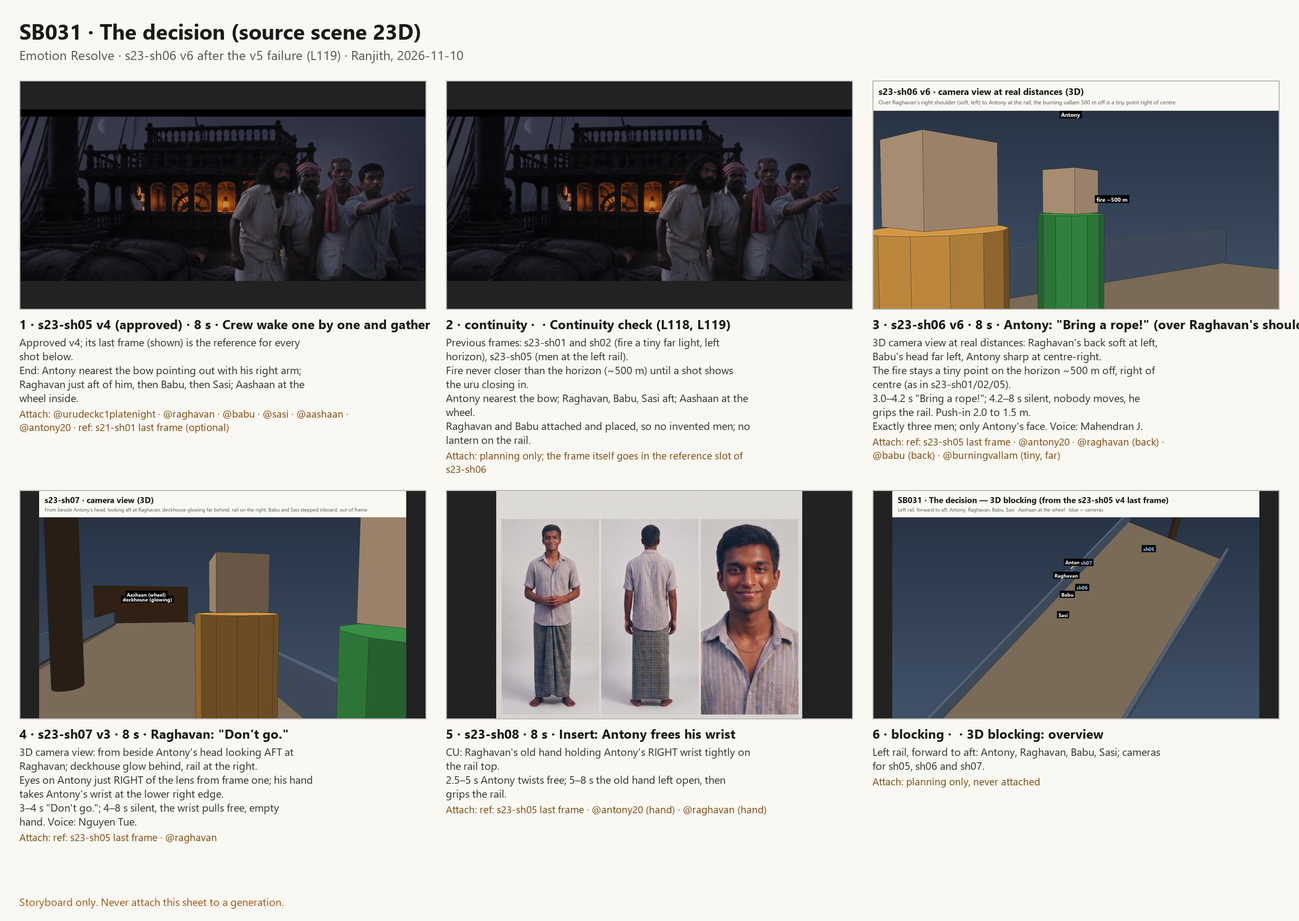
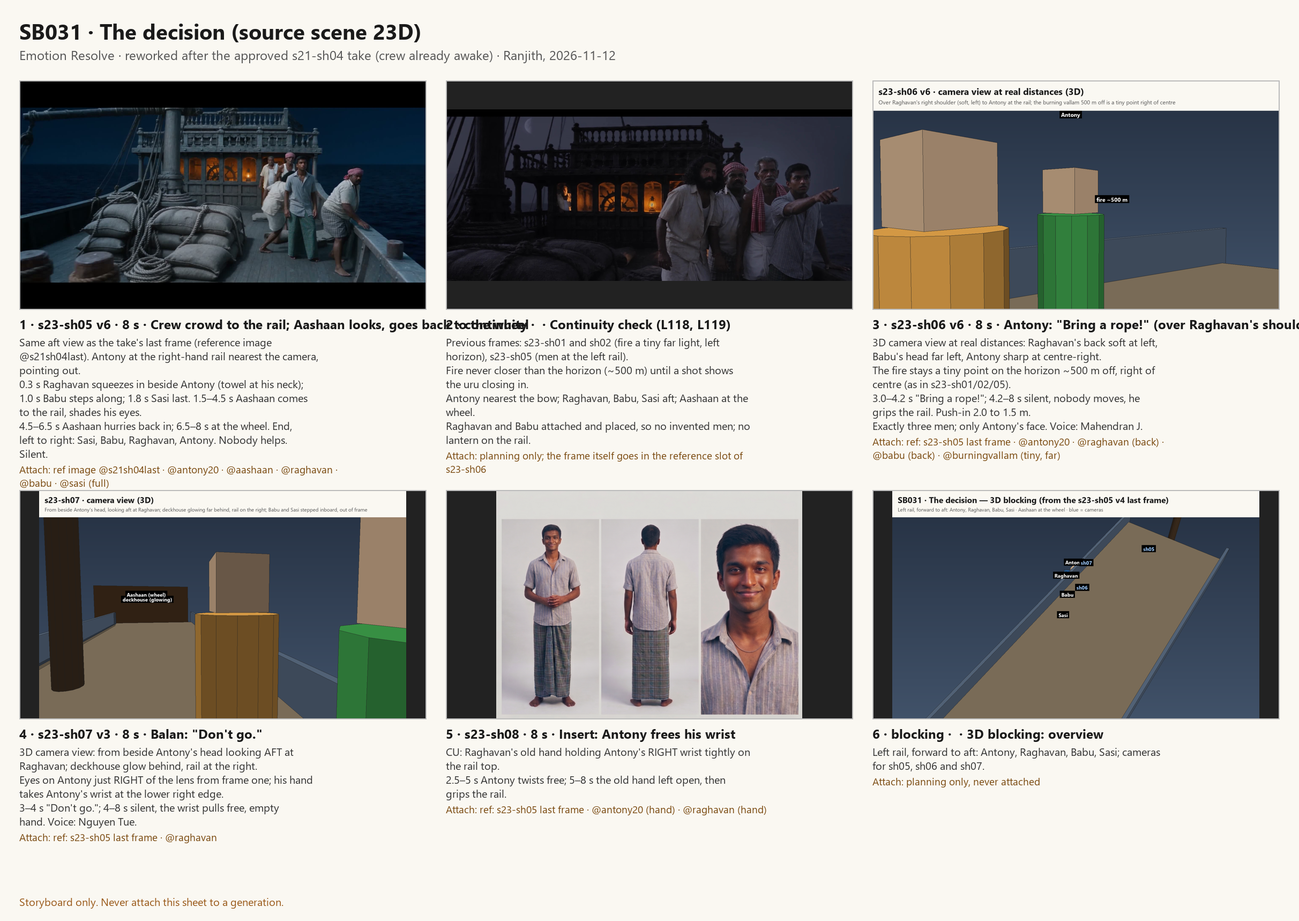
Ranjith: shot: s23-sh05 v6 (crew crowd to the rail, Aashaan back to the wheel) and SB031 storyboard

Changed region(s): [[0.0, 0.0617, 0.3713, 0.5244], [0.1238, 0.7712, 0.2166, 0.8021], [0.2166, 0.4936, 0.2475, 0.5244]]

diff --git a/scenes/showreel/s23-sh05.md b/scenes/showreel/s23-sh05.md
@@ -1,72 +1,74 @@
-# Shot s23-sh05 · SB031a The crew wake and gather at the rail (8 s, silent) — v5
-Status: **ready, proposal** (v5, full-moon redo, Ranjith 2026-11-12; v4 kept in `retired/s23-sh05-v4.md`). Start images come from the new full-moon takes.
+# Shot s23-sh05 · SB031a The crew crowd to the rail; Aashaan looks and goes back to the wheel (8 s, silent) — v6
+Status: **ready, proposal** (v6, Ranjith 2026-11-12: continues from the approved s21-sh04 take, where the crew are already awake; v5 kept in `retired/s23-sh05-v5.md`). QA 88.
 Storyboard: SB031 · source scene 23D · emotion "Resolve" (no tag on the platform, W6) · storyboard `storyboards/sb031-storyboard.png` (with 3D blocking)
 Created by: Ranjith, 2026-11-08
-Camera position: urudeck-c1-aft-night (same as s21-sh01)
-References: reference image = s21-sh01 last frame if kept · @urudeckc1platefullmoon (full) · @raghavan · @babu · @sasi · @aashaan (small, inside) · @antony20 (all full)
-Reference sweep (left out, and why): @crew: never with the named crewmen (L74). @suresh: not in the night-watch scene (SB027 had Raghavan, Babu, Sasi). @burningvallam and @selvan: off frame, beyond the right rail toward the bow (behind the camera), only their orange glow is seen. @uru: its own deck is the plate (L51).
-Follows: s23-sh04 v1 (approved: Antony shouts to Aashaan, points at the fire). Next: s23-sh06.
+Camera position: the aft view of the s21-sh04 take's last frame (main deck forward of the sacks, looking aft; urudeck-c1-aft-night family), locked
+References: reference image = `approved/s21-sh04-last.jpg` (@s21sh04last, required) · @antony20 · @aashaan · @raghavan · @babu · @sasi (all full)
+Reference sweep (left out, and why): @urudeckc1platefullmoon: its mast stands elsewhere than in the approved take; the take's frame carries the deck (L20, L98). @s21sh04blender3d: the take now holds the layout. @burningvallam, @selvan: behind the camera, ahead-left; only a faint orange flicker on faces. @suresh, @balan: below until s23-sh06b.
+Follows: s23-sh04 v3 (Antony shouts to Aashaan). Next: s23-sh06 (Antony: bring the rope, fast).
 
 ## Prompt
 ```
 SCENE
-Full-moon night, 1998, on the open sea, on the main deck of the big wooden cargo uru. One continuous shot. Woken by Antony's shout, the three sleeping crewmen wake one after another, get up off their mats and hurry to the right-hand rail, where Antony runs in from the bow; they all stare out at the sea toward the bow. Nobody moves to help. Inside the deckhouse Aashaan leans to look out. Nobody speaks.
+Full-moon night, 1998, on the open sea, on the main deck of our wooden cargo uru, looking aft at the carved deckhouse. One continuous shot, 8 seconds. After Antony's shout the crew crowd to the right-hand rail beside him and stare out to sea; nobody moves to help. Aashaan comes to the rail, looks, then hurries back inside to the wheel. Nobody speaks.
+
+MEMORY (the same night in every shot; nothing changes unless this block says so)
+Place: our uru: carved two-deck deckhouse aft with the wheel inside, its windows and door lit by one lantern; ONE mast with a lantern at its foot and ONE stack of lashed sacks beside it, both at the LEFT of this view; the right-hand rail is the boat's left side.
+Light: the full moon is behind the camera, never in the sky of this view; its silver-blue light falls on the deckhouse front and the men. Blue and readable, never black; warm light only from the lanterns.
+People: Antony: grey-beige short-sleeve shirt with thin vertical stripes, green-grey checked mundu, barefoot, bare wrists. Aashaan: about 60, grey hair combed back, grey moustache, cream shirt over a white vest, white towel on his LEFT shoulder, white mundu. Raghavan: about 60, thin, grey hair uncovered, white vest, white mundu, red-and-white checked towel draped round his neck and down his chest. Babu: heavy-set, moustache, red-and-white checked towel tied round his head, checked lungi. Sasi: long black curly hair, full beard, off-white shirt, white mundu. One of each, never a copy or a stranger; no red thread on any wrist.
+Fire: one burning vallam far off ahead-left, behind the camera to the right; only a faint orange flicker on faces at the rail.
+NOW: Antony at the right-hand rail nearest the camera, right arm pointing out to sea; Babu at the rail just beyond him; Raghavan and Sasi on the deck between the sacks and the door, just up; Aashaan just out of the deckhouse door; the wheel empty.
 
 ACTIVE REFERENCES
-Reference image (0.0s): the last frame of the earlier shot from this same view (s21-sh01), if kept: the same deck, mats, deckhouse and men.
-@urudeckc1platefullmoon (0.0s–8.0s, full): the main deck looking aft exactly as in the reference: the carved wooden deckhouse with its windows and half-open door glowing from one lantern inside, the wheel seen through the windows, mats on the clear deck, the deep blue sea beyond the RIGHT rail, the full moon behind the view, out of frame; the whole deck in clear blue full-moon light. 100% matches the reference.
-@raghavan (0.0s–8.0s, full): Raghavan, about 60, thin and wiry, very dark weathered skin, short grey hair, grey moustache, white cotton vest, red-and-white checked towel round his neck, white mundu. 100% matches the reference.
-@babu (0.0s–8.0s, full): Babu, about 40, heavy-set, thick black moustache, red-and-white checked towel tied round his head, off-white half-sleeve shirt open over a white vest, grey-brown checked lungi. 100% matches the reference.
-@sasi (0.0s–8.0s, full): Sasi, about 35, lean, long thick black curly hair to the shoulders, full black beard, stained off-white half-sleeve shirt open over a white vest, white mundu. 100% matches the reference.
-@aashaan (0.0s–8.0s, full, small, inside the deckhouse): Aashaan, about 60, grey hair combed back, grey moustache, cream half-sleeve shirt open over a white vest, white towel on his LEFT shoulder, white mundu. 100% matches the reference.
-@antony20 (0.0s–8.0s, full): Antony, 24, lean, sun-browned, short black hair; exactly the reference clothes: short-sleeve lavender-grey and white striped shirt and grey-green checked mundu, never a plain white shirt or trousers; thin silver chain. 100% matches the reference.
+Reference image (0.0s–8.0s): the last frame of the earlier shot from this same view: the same deck, mast, sacks, deckhouse, light and men. 100% matches the reference.
+@antony20, @aashaan, @raghavan, @babu, @sasi (full): each exactly as in MEMORY. 100% matches the reference.
 
 WHAT IS IN FRAME
-Only the main deck, the mats, the deckhouse with Aashaan inside, the right-hand rail with the deep blue sea beyond, and exactly five men: Raghavan, Babu, Sasi, Antony and Aashaan. Every frame looks like the film itself, with nothing from the making of it. No lettering anywhere.
-
-THE DECK (0.0s–8.0s)
-Seen from the main deck forward of the deckhouse at standing eye height, looking aft, exactly as in the reference. On the mats at the start: Raghavan on his back with the towel over his eyes, Babu on his side facing the right rail, Sasi asleep against the sacks. Inside the deckhouse, framed by the middle windows, Aashaan at the wheel. The right-hand rail runs down the right of the frame; beyond it the deep blue sea.
+The main deck, the mast and the sacks at the left, the lit deckhouse, the right-hand rail with the deep blue sea beyond, and exactly five men. No moon. No lettering anywhere.
 
 FIRST FRAME
-The three men asleep on their mats, Aashaan at the wheel inside the glowing deckhouse; the deck still.
+As the reference image, seconds later: Antony now at the right-hand rail nearest the camera, pointing out; Babu at the rail beyond him; Raghavan and Sasi mid-deck; Aashaan by the door.
 
 FORMAT MODE
 One continuous shot; the camera does not cut on its own. The video runs the full 8 seconds.
 
 OPTICS
-WS 63°, natural depth of field: every man and the deckhouse readable.
+WS, about 63°, natural depth of field: every man and the deckhouse readable.
 
 CAMERA
-A locked-off, steady view at standing eye height, rising and falling gently with the swell, level horizon.
+Locked off at standing eye height; the camera rides with the boat, so the uru stays steady in the frame.
 
 ACTION
-0.0s to 2.0s: Each man wakes at his own moment, never together: at 0.3s Raghavan pulls the towel off his eyes and sits up; at 1.0s Babu pushes up on one elbow; at 1.6s Sasi lifts his head, still half asleep; each looks toward the bow, toward the camera; inside, Aashaan turns his head.
-2.0s to 5.5s: At 2.0s Raghavan gets up first and hurries to the right-hand rail nearest the camera; at 2.8s Babu follows, slower; at 3.6s Sasi gets up last and comes after them; Antony runs in past the right edge of the frame from the bow to the rail beside Raghavan, his right arm pointing out over the sea toward the bow; inside the deckhouse Aashaan leans to the side window to look out.
-5.5s to 8.0s: A tense beat: the four men at the right rail stare out toward the bow, a faint orange flicker on their faces; nobody climbs or moves to help; Babu shakes his head slowly, Sasi grips the rail, Raghavan breathes fast; Antony looks from the sea to the men and back. Everyone keeps moving.
+0.0s to 3.0s: Each moves at his own moment, never together. 0.3s Raghavan hurries to the rail and squeezes in just beyond Antony, the towel round his neck; 1.0s Babu shifts one step further along the rail to make room; 1.8s Sasi comes last and stops beyond Babu, gripping the rail.
+1.5s to 4.5s: Aashaan crosses from the door to the rail behind them, shades his eyes and stares out where Antony points.
+4.5s to 6.5s: Aashaan turns, grave, and hurries back in through the door.
+6.5s to 8.0s: Aashaan at the wheel behind the window, turning it; at the rail, left to right: Sasi, Babu, Raghavan, then Antony nearest the camera, all staring out to sea, faces turned toward the right edge of the frame. Nobody climbs or moves to help. Hold.
 
-PERFORMANCE
-Fear and hesitation in the crew, urgency in Antony; bodies loose and real, never posed, never frozen.
+EXPRESSIONS
+Antony: urgent, eyes wide, jaw tight. Raghavan: fast breath, an old man's dread. Babu: afraid, shaking his head slowly. Sasi: tense, jaw set. Aashaan: grave, eyes narrowed, decided. Every mouth stays closed.
 
 PHYSICS
-The deck rises and falls on the swell; the mats and cloth shift as the men get up; the lantern sways inside the deckhouse and the window glow moves.
+A slow sea; lantern flames flicker; mundus and shirts move as they hurry; the window glow sways.
 
 LIGHTING
-A clear full-moon night: warm lantern glow from the deckhouse windows and door onto the near planks; cool silver-blue light from the full moon behind the view, out of frame, falling on the deckhouse front and the men; a faint flickering orange glow from beyond the right rail on the faces of the men there. No glossy look. Blue and readable, never black, never grey.
+As in MEMORY: moonlight from behind the camera on the deckhouse front and the men; warm lantern glow from the windows, the door and the mast foot; a faint warm flicker on the faces at the rail from the right. No moon and no glow in the sky.
 
 AUDIO
-Sound effects only — natural on-location sound, the soundtrack carries no music. No music at all: no score, no background music, no song, no humming, and no cinematic sound design: no riser, no whoosh, no swell, no rumble, no transition sound. Ambient at a steady level that does not build. No spoken words and no voices.
-0.0s–8.0s: water hissing along the hull, the rigging creaking; 0.5s–5.5s mats rustling and footsteps on the planks; 5.5s–8.0s quick, worried breaths; far off, the faint crackle of a fire.
+Sound effects only — natural on-location sound, the soundtrack carries no music. No music at all: no score, no background music, no song, no humming, and no cinematic sound design: no riser, no whoosh, no swell, no rumble, no transition sound. Ambient at a steady level that does not build. No spoken words and no voices; every mouth stays closed.
+0.0s–3.0s bare feet on the planks; 4.5s–6.5s Aashaan's quick steps, the door knocking; 6.5s–8.0s the wheel creaking, the sea, quick worried breaths.
 
 STYLE
-Photoreal 1998 Kerala period film. Shot on a Sony Venice 2 full-frame digital cinema camera: very wide dynamic range that holds the lantern-lit deckhouse and the moonlit deck in one frame; clean, low-noise shadows; soft, gradual highlight roll-off; accurate, natural colour with rich, true skin tones; gentle filmic contrast; fine, organic texture; no over-sharpening, no glossy or video look. Cool full-moon night with one warm lantern.
+Photoreal 1998 Kerala period feature film. Shot on a Sony Venice 2 full-frame digital cinema camera: very wide dynamic range; clean, low-noise shadows; soft, gradual highlight roll-off; accurate, natural colour with rich, true skin tones; gentle filmic contrast; fine, organic texture; no over-sharpening, no glossy or video look. Deep blue full-moon night with small warm lanterns.
 
 POSITIVE LOCKS
-Exactly five men: Raghavan, Babu, Sasi and Antony at the RIGHT rail by the end, Aashaan inside the deckhouse at the wheel. Never moving together. Nobody climbs the rail or jumps. No moon in the sky of this view. Nobody speaks. Runs the full 8 seconds.
+Exactly five men, one of each. At the end: Sasi, Babu, Raghavan, Antony along the right-hand rail, never moving together; Aashaan inside at the wheel. Raghavan's towel round his neck, his grey hair uncovered; Babu's towel on his head. One mast, one stack of sacks. Nobody climbs the rail. No moon in the sky. Nobody speaks. Runs the full 8 seconds.
 ```
 
 ## Settings
-- Duration: set the platform to 8 s (L71). 21:9. No dialogue. Generate this one FIRST: its approved last frame is the reference image for s23-sh06, sh07 and sh08 (L85).
-- On the platform, remove all other attachments first (L88); attach only the IDs and images listed here.
+- Duration **8 s** (L71) · 21:9 · no dialogue · remove every other attachment first (L88). Attach folder: `attach/s23-sh05/`.
+- Attach: reference image `@s21sh04last` · `@antony20` · `@aashaan` · `@raghavan` · `@babu` · `@sasi`.
+- Generate this one FIRST of SB031: its approved last frame is the start image for s23-sh06 (L85).
+- QA 88. Risks: five people moving (staggered, L113); Aashaan has to go back in by 6.5 s or s24-sh01 breaks; Raghavan's towel (L149).
 
 ## Generation results
 - v4 [approved] (2026-11-10, Ranjith) kept; last frame saved. End: Antony at the rail nearest the bow pointing out with his right arm, Raghavan just aft of him, then Babu, then Sasi; Aashaan at the wheel inside.
@@ -75,6 +77,7 @@ Exactly five men: Raghavan, Babu, Sasi and Antony at the RIGHT rail by the end, 
 - v1 [failed] (2026-11-08, Ranjith) blocked by Higgsfield's content filter, nothing rendered (L72/L89).
 
 ## History
+- v6 (2026-11-12): Ranjith: reworked after the approved s21-sh04 take, where the crew are already awake and Aashaan has come out of the door: no waking; the men crowd to the rail; Aashaan looks, then goes back to the wheel, so s23-sh06 to s24-sh01 still find him there. End order kept (Sasi, Babu, Raghavan, Antony). MEMORY block (L145), L149 towel wording, no plate (the take carries the deck).
 - v5 (2026-11-12): Ranjith: full-moon redo (SB027–SB032) in the look of his reference video: moon placed by the night sheet (ahead-right of the bow, L142), blue readable light, the bow is @urubowplate (L143), plates swapped to the full-moon IDs. Action, positions, lines and timing unchanged (L114). A start image means the last frame of the NEW full-moon take of the shot before.
 - v4 (2026-11-10): back to the approved v2 prompt word for word, with only the waking and getting up staggered (Raghavan 0.3 s / 2.0 s, Babu 1.0 s / 2.8 s, Sasi 1.6 s / 3.6 s) and 'never moving together' in the locks (L113, L114). v3: `retired/s23-sh05-v3.md`.
 - v3 (2026-11-10): retake with L92 (spread at different distances and poses, not a row) and L113 (each man wakes and moves at his own time, 0.3–4.0 s, own action). End order kept from v2's frame (aft to forward: Sasi, Antony, Babu, Raghavan) so s23-sh06/sh07 still match; Aashaan ends in the doorway as in v2.

diff --git a/scenes/showreel/retired/s23-sh05-v5.md b/scenes/showreel/retired/s23-sh05-v5.md
@@ -1,0 +1,82 @@
+# Shot s23-sh05 · SB031a The crew wake and gather at the rail (8 s, silent) — v5
+Status: **ready, proposal** (v5, full-moon redo, Ranjith 2026-11-12; v4 kept in `retired/s23-sh05-v4.md`). Start images come from the new full-moon takes.
+Storyboard: SB031 · source scene 23D · emotion "Resolve" (no tag on the platform, W6) · storyboard `storyboards/sb031-storyboard.png` (with 3D blocking)
+Created by: Ranjith, 2026-11-08
+Camera position: urudeck-c1-aft-night (same as s21-sh01)
+References: reference image = s21-sh01 last frame if kept · @urudeckc1platefullmoon (full) · @raghavan · @babu · @sasi · @aashaan (small, inside) · @antony20 (all full)
+Reference sweep (left out, and why): @crew: never with the named crewmen (L74). @suresh: not in the night-watch scene (SB027 had Raghavan, Babu, Sasi). @burningvallam and @selvan: off frame, beyond the right rail toward the bow (behind the camera), only their orange glow is seen. @uru: its own deck is the plate (L51).
+Follows: s23-sh04 v1 (approved: Antony shouts to Aashaan, points at the fire). Next: s23-sh06.
+
+## Prompt
+```
+SCENE
+Full-moon night, 1998, on the open sea, on the main deck of the big wooden cargo uru. One continuous shot. Woken by Antony's shout, the three sleeping crewmen wake one after another, get up off their mats and hurry to the right-hand rail, where Antony runs in from the bow; they all stare out at the sea toward the bow. Nobody moves to help. Inside the deckhouse Aashaan leans to look out. Nobody speaks.
+
+ACTIVE REFERENCES
+Reference image (0.0s): the last frame of the earlier shot from this same view (s21-sh01), if kept: the same deck, mats, deckhouse and men.
+@urudeckc1platefullmoon (0.0s–8.0s, full): the main deck looking aft exactly as in the reference: the carved wooden deckhouse with its windows and half-open door glowing from one lantern inside, the wheel seen through the windows, mats on the clear deck, the deep blue sea beyond the RIGHT rail, the full moon behind the view, out of frame; the whole deck in clear blue full-moon light. 100% matches the reference.
+@raghavan (0.0s–8.0s, full): Raghavan, about 60, thin and wiry, very dark weathered skin, short grey hair, grey moustache, white cotton vest, red-and-white checked towel round his neck, white mundu. 100% matches the reference.
+@babu (0.0s–8.0s, full): Babu, about 40, heavy-set, thick black moustache, red-and-white checked towel tied round his head, off-white half-sleeve shirt open over a white vest, grey-brown checked lungi. 100% matches the reference.
+@sasi (0.0s–8.0s, full): Sasi, about 35, lean, long thick black curly hair to the shoulders, full black beard, stained off-white half-sleeve shirt open over a white vest, white mundu. 100% matches the reference.
+@aashaan (0.0s–8.0s, full, small, inside the deckhouse): Aashaan, about 60, grey hair combed back, grey moustache, cream half-sleeve shirt open over a white vest, white towel on his LEFT shoulder, white mundu. 100% matches the reference.
+@antony20 (0.0s–8.0s, full): Antony, 24, lean, sun-browned, short black hair; exactly the reference clothes: short-sleeve lavender-grey and white striped shirt and grey-green checked mundu, never a plain white shirt or trousers; thin silver chain. 100% matches the reference.
+
+WHAT IS IN FRAME
+Only the main deck, the mats, the deckhouse with Aashaan inside, the right-hand rail with the deep blue sea beyond, and exactly five men: Raghavan, Babu, Sasi, Antony and Aashaan. Every frame looks like the film itself, with nothing from the making of it. No lettering anywhere.
+
+THE DECK (0.0s–8.0s)
+Seen from the main deck forward of the deckhouse at standing eye height, looking aft, exactly as in the reference. On the mats at the start: Raghavan on his back with the towel over his eyes, Babu on his side facing the right rail, Sasi asleep against the sacks. Inside the deckhouse, framed by the middle windows, Aashaan at the wheel. The right-hand rail runs down the right of the frame; beyond it the deep blue sea.
+
+FIRST FRAME
+The three men asleep on their mats, Aashaan at the wheel inside the glowing deckhouse; the deck still.
+
+FORMAT MODE
+One continuous shot; the camera does not cut on its own. The video runs the full 8 seconds.
+
+OPTICS
+WS 63°, natural depth of field: every man and the deckhouse readable.
+
+CAMERA
+A locked-off, steady view at standing eye height, rising and falling gently with the swell, level horizon.
+
+ACTION
+0.0s to 2.0s: Each man wakes at his own moment, never together: at 0.3s Raghavan pulls the towel off his eyes and sits up; at 1.0s Babu pushes up on one elbow; at 1.6s Sasi lifts his head, still half asleep; each looks toward the bow, toward the camera; inside, Aashaan turns his head.
+2.0s to 5.5s: At 2.0s Raghavan gets up first and hurries to the right-hand rail nearest the camera; at 2.8s Babu follows, slower; at 3.6s Sasi gets up last and comes after them; Antony runs in past the right edge of the frame from the bow to the rail beside Raghavan, his right arm pointing out over the sea toward the bow; inside the deckhouse Aashaan leans to the side window to look out.
+5.5s to 8.0s: A tense beat: the four men at the right rail stare out toward the bow, a faint orange flicker on their faces; nobody climbs or moves to help; Babu shakes his head slowly, Sasi grips the rail, Raghavan breathes fast; Antony looks from the sea to the men and back. Everyone keeps moving.
+
+PERFORMANCE
+Fear and hesitation in the crew, urgency in Antony; bodies loose and real, never posed, never frozen.
+
+PHYSICS
+The deck rises and falls on the swell; the mats and cloth shift as the men get up; the lantern sways inside the deckhouse and the window glow moves.
+
+LIGHTING
+A clear full-moon night: warm lantern glow from the deckhouse windows and door onto the near planks; cool silver-blue light from the full moon behind the view, out of frame, falling on the deckhouse front and the men; a faint flickering orange glow from beyond the right rail on the faces of the men there. No glossy look. Blue and readable, never black, never grey.
+
+AUDIO
+Sound effects only — natural on-location sound, the soundtrack carries no music. No music at all: no score, no background music, no song, no humming, and no cinematic sound design: no riser, no whoosh, no swell, no rumble, no transition sound. Ambient at a steady level that does not build. No spoken words and no voices.
+0.0s–8.0s: water hissing along the hull, the rigging creaking; 0.5s–5.5s mats rustling and footsteps on the planks; 5.5s–8.0s quick, worried breaths; far off, the faint crackle of a fire.
+
+STYLE
+Photoreal 1998 Kerala period film. Shot on a Sony Venice 2 full-frame digital cinema camera: very wide dynamic range that holds the lantern-lit deckhouse and the moonlit deck in one frame; clean, low-noise shadows; soft, gradual highlight roll-off; accurate, natural colour with rich, true skin tones; gentle filmic contrast; fine, organic texture; no over-sharpening, no glossy or video look. Cool full-moon night with one warm lantern.
+
+POSITIVE LOCKS
+Exactly five men: Raghavan, Babu, Sasi and Antony at the RIGHT rail by the end, Aashaan inside the deckhouse at the wheel. Never moving together. Nobody climbs the rail or jumps. No moon in the sky of this view. Nobody speaks. Runs the full 8 seconds.
+```
+
+## Settings
+- Duration: set the platform to 8 s (L71). 21:9. No dialogue. Generate this one FIRST: its approved last frame is the reference image for s23-sh06, sh07 and sh08 (L85).
+- On the platform, remove all other attachments first (L88); attach only the IDs and images listed here.
+
+## Generation results
+- v4 [approved] (2026-11-10, Ranjith) kept; last frame saved. End: Antony at the rail nearest the bow pointing out with his right arm, Raghavan just aft of him, then Babu, then Sasi; Aashaan at the wheel inside.
+- v3 [failed] (2026-11-10, Ranjith) the rewrite changed too much: the wheel showed very big in the windows, nobody was readable at the start, and Antony came out of the deckhouse instead of from the bow (L114). v2 had worked; only the unison waking needed changing.
+- v2 [approved] (2026-11-10, Ranjith) came out well ("deck-wake-and-gather-night"). Flag: the three men woke, got up and moved together in unison; stagger group actions (L113).
+- v1 [failed] (2026-11-08, Ranjith) blocked by Higgsfield's content filter, nothing rendered (L72/L89).
+
+## History
+- v5 (2026-11-12): Ranjith: full-moon redo (SB027–SB032) in the look of his reference video: moon placed by the night sheet (ahead-right of the bow, L142), blue readable light, the bow is @urubowplate (L143), plates swapped to the full-moon IDs. Action, positions, lines and timing unchanged (L114). A start image means the last frame of the NEW full-moon take of the shot before.
+- v4 (2026-11-10): back to the approved v2 prompt word for word, with only the waking and getting up staggered (Raghavan 0.3 s / 2.0 s, Babu 1.0 s / 2.8 s, Sasi 1.6 s / 3.6 s) and 'never moving together' in the locks (L113, L114). v3: `retired/s23-sh05-v3.md`.
+- v3 (2026-11-10): retake with L92 (spread at different distances and poses, not a row) and L113 (each man wakes and moves at his own time, 0.3–4.0 s, own action). End order kept from v2's frame (aft to forward: Sasi, Antony, Babu, Raghavan) so s23-sh06/sh07 still match; Aashaan ends in the doorway as in v2.
+- v2 (2026-11-08): filter-safe wording (L72, L89): no barefoot, sleeveless, 'jerk', 'hard breathing', 'grunt', skin-on-skin sounds, 'clamped'.
+- v1 (2026-11-08): first version. Same deck camera as SB027 (s21-sh01); the crew sleeping positions carried over; left rail of the boat = RIGHT of frame looking aft (the fire is ahead-left of the uru).

diff --git a/continuity/memory/night-rescue-sb027-sb032.md b/continuity/memory/night-rescue-sb027-sb032.md
@@ -28,7 +28,8 @@ Format: `NOW: <who is where>; <what is in their hands>; <each face, in a few wor
 | s21-sh04 take end | Antony standing mid-deck near the LEFT rail by the mast and sacks; Babu at the rail a step ahead of him; Sasi getting up; Raghavan (towel on his head in the take, L149) and Aashaan just out of the deckhouse door; the wheel empty; fire ~500 m ahead-left. |
 | s23-sh03 v4 | Antony at the left rail staring out (POV, nobody in frame); the others behind him just woken; fire ~500 m; a hand with a torch rises and sinks beside it. |
 | s23-sh04 v3 | Antony at the left rail, spins to shout down the deck to Aashaan by the door; Babu a step ahead out of frame; urgent, wide eyes; fire ~500 m. |
-| s23-sh05 … s24-sh02 | written when each shot is redone with this block (positions from `continuity/night-rescue-distances.md`). |
+| s23-sh05 v6 | Antony at the left rail nearest the bow, pointing; Raghavan (towel at his neck), Babu, Sasi crowd in beside him; Aashaan looks, then goes back to the wheel; fire ~500 m. End, aft view left to right: Sasi, Babu, Raghavan, Antony. |
+| s23-sh06 … s24-sh02 | written when each shot is redone with this block (positions from `continuity/night-rescue-distances.md`). |
 
 ## Master list of people (copy only those in frame into the People line)
 - Antony: grey-beige short-sleeve shirt with thin vertical stripes, green-grey checked mundu, barefoot (as in Aswanth's uru shots, `approved/s16a-sh01-last.webp`; Ranjith, 2026-11-12).

diff --git a/scenes/showreel/attach/s23-sh05/README.md b/scenes/showreel/attach/s23-sh05/README.md
@@ -1,0 +1,8 @@
+# s23-sh05 v6 · what to attach (8 s, 21:9, silent)
+
+| # | File | Platform ID | How |
+|---|---|---|---|
+| 01 | 01-REF-s21sh04last.jpg | `@s21sh04last` | **reference image** (last frame of the s21-sh04 take, same view) |
+| 02–06 | antony20, aashaan, raghavan, babu, sasi | `@antony20` `@aashaan` `@raghavan` `@babu` `@sasi` | full |
+
+Remove every other attachment first (L88). Prompt: `scenes/showreel/s23-sh05.md`. Generate it first of SB031: its last frame starts s23-sh06.
